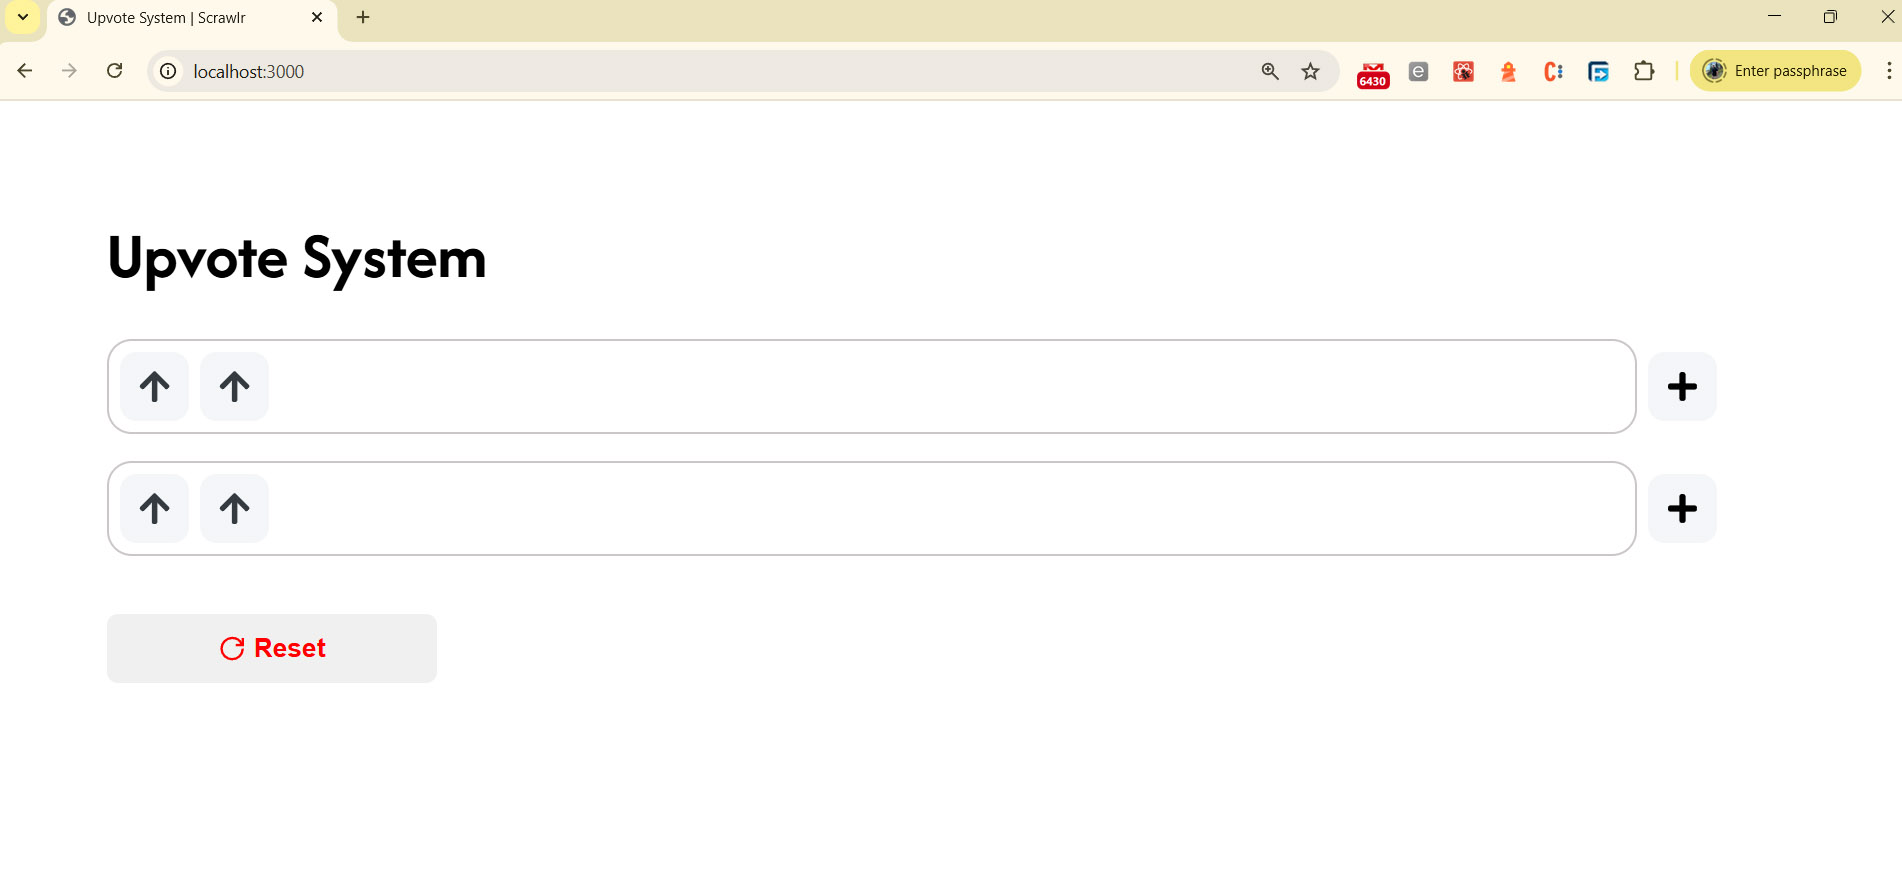
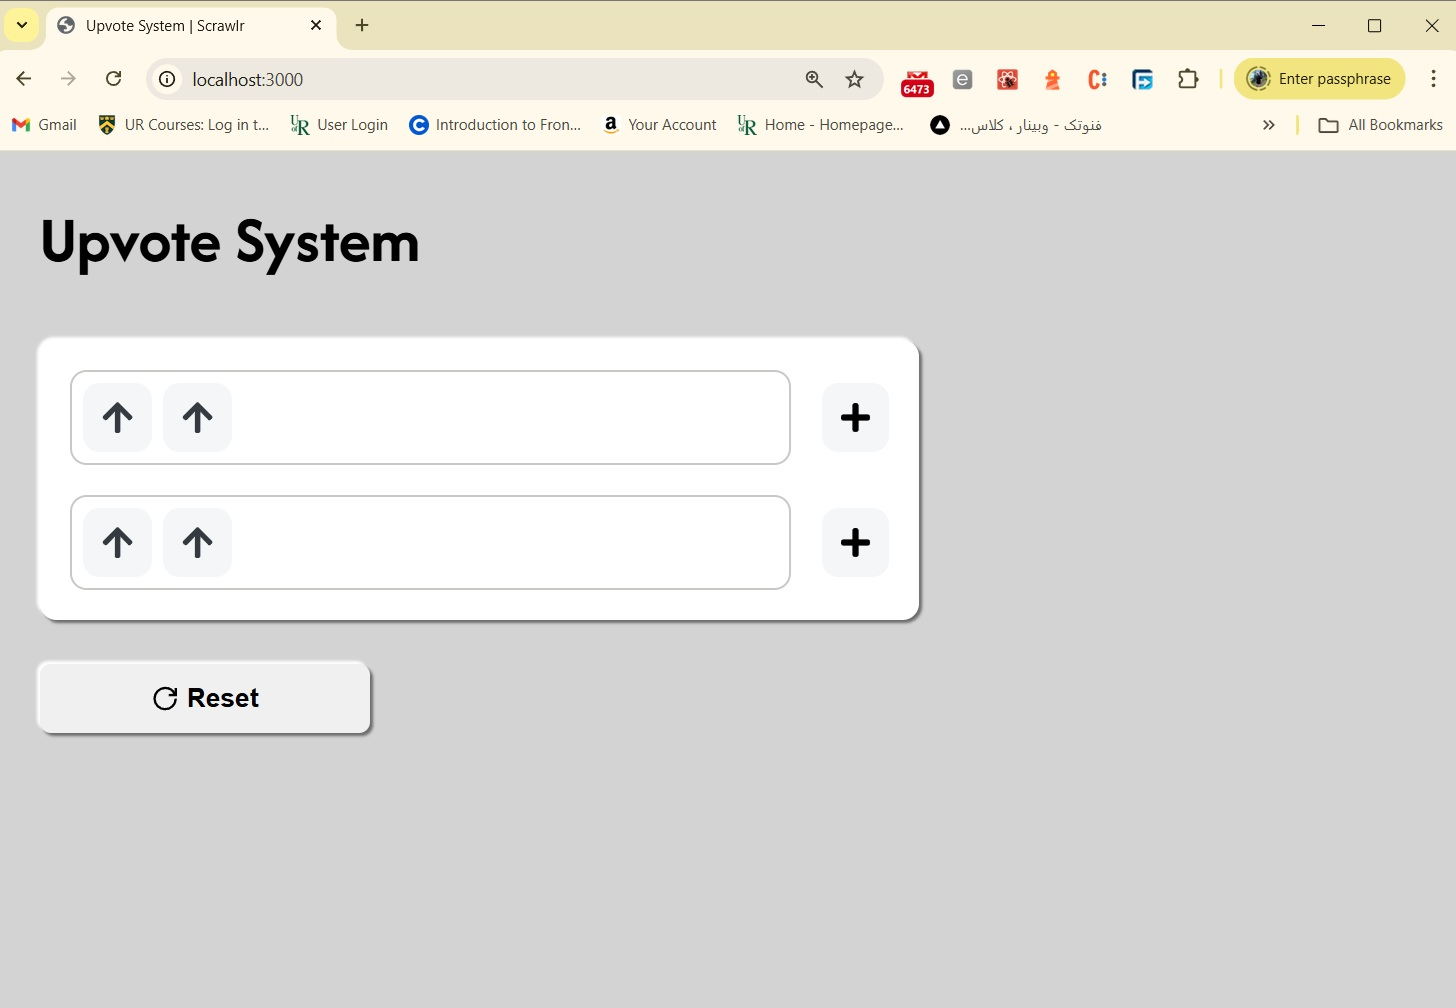
embeded font added- refactored styling files

diff --git a/src/styles/_mixins.scss b/src/styles/_mixins.scss
@@ -23,6 +23,23 @@
   }
 }
 
+@mixin add-button {
+  width: v.$size-upvote;
+  height: v.$size-upvote;
+  border: none;
+  background-color: v.$color-default-bg;
+  border-radius: v.$border-radius-button;
+  font-size: 24px;
+  margin-left: v.$spacing-large;
+  cursor: pointer;
+  @include flex-center;
+  transition: background 0.2s ease;
+
+  &:hover {
+    background-color: v.$color-button-hover;
+  }
+}
+
 @mixin reset-button {
   width: v.$reset-width;
   height: v.$size-upvote;
@@ -47,13 +64,39 @@
 @mixin home {
   display: flex;
   width: 100vw;
-  height: 100vh;
+  min-height: 100vh;
+  height: auto;
   flex-direction: column;
   padding: v.$home-padding;
   font-family: "Afacad Flux", sans-serif;
+  background-color: rgb(211, 211, 211);
 }
 
 @mixin header {
   margin-bottom: 2.6rem;
   font-size: v.$header-font-size;
+}
+
+@mixin lists-container {
+  width: 60vw;
+  background-color: #fff;
+  box-shadow: v.$box-shadow;
+  padding: 0 v.$spacing-large;
+  border-radius: v.$border-radius;
+}
+
+@mixin upvote-list {
+  display: flex;
+  flex-wrap: wrap;
+  width: v.$list-width;
+  gap: v.$spacing-small;
+  border: v.$list-container-border;
+  border-radius: v.$border-radius;
+  padding: v.$spacing-small;
+}
+@mixin upvote-list-container {
+  display: flex;
+  align-items: center;
+  justify-content: left;
+  margin: v.$spacing-large 0;
 }

diff --git a/index.html b/index.html
@@ -3,6 +3,12 @@
   <head>
     <meta charset="UTF-8" />
     <meta name="viewport" content="width=device-width, initial-scale=1.0" />
+    <link rel="preconnect" href="https://fonts.googleapis.com" />
+    <link rel="preconnect" href="https://fonts.gstatic.com" crossorigin />
+    <link
+      href="https://fonts.googleapis.com/css2?family=Afacad+Flux:wght@100..1000&family=Alex+Brush&family=Belleza&family=Dancing+Script:wght@400..700&family=Figtree:ital,wght@0,300..900;1,300..900&family=Fraunces:ital,opsz,wght@0,9..144,100..900;1,9..144,100..900&family=Great+Vibes&family=Inter:ital,opsz,wght@0,14..32,100..900;1,14..32,100..900&family=Montserrat:ital,wght@0,100..900;1,100..900&family=Playfair+Display:ital,wght@0,400..900;1,400..900&family=Raleway:ital,wght@0,100..900;1,100..900&family=Roboto:ital,wght@0,100;0,300;0,400;0,500;0,700;0,900;1,100;1,300;1,400;1,500;1,700;1,900&family=Satisfy&family=Vazirmatn:wght@100..900&family=Young+Serif&display=swap"
+      rel="stylesheet"
+    />
     <title>Upvote System | Scrawlr</title>
   </head>
   <body>

diff --git a/src/styles/_upvote.scss b/src/styles/_upvote.scss
@@ -10,17 +10,12 @@
 }
 
 .upvote-list {
-  display: flex;
-  flex-wrap: wrap;
-  width: v.$list-width;
-  gap: v.$spacing-small;
-  border: v.$list-container-border;
-  border-radius: v.$border-radius;
-  padding: v.$spacing-small;
+  @include m.upvote-list;
 }
 .upvote-list-container {
-  display: flex;
-  align-items: center;
-  justify-content: left;
-  margin: v.$spacing-large 0;
+  @include m.upvote-list-container;
+}
+
+.add-button {
+  @include m.add-button();
 }

diff --git a/src/styles/global.scss b/src/styles/global.scss
@@ -9,7 +9,6 @@
 
 .home {
   @include m.home();
-  background-color: rgb(211, 211, 211);
 }
 .reset-button {
   @include m.reset-button();
@@ -20,9 +19,5 @@
 }
 
 .lists-container {
-  width: 60vw;
-  background-color: #fff;
-  box-shadow: v.$box-shadow;
-  padding: v.$spacing-large;
-  border-radius: v.$border-radius;
+  @include m.lists-container();
 }

diff --git a/src/styles/_variables.scss b/src/styles/_variables.scss
@@ -19,7 +19,7 @@ $list-container-border: 2px rgb(202, 199, 199) solid;
 
 $reset-width: 15rem;
 
-$home-padding: 5rem;
+$home-padding: 2rem;
 $header-font-size: 3rem;
 
 $box-shadow: 2px 2px 3px rgb(109, 108, 108), -2px -2px 2px #fff;

diff --git a/src/components/Upvote.jsx b/src/components/Upvote.jsx
@@ -1,5 +1,4 @@
 import React from "react";
-import "../styles/_buttons.scss";
 import "../styles/_upvote.scss";
 
 import { FaArrowUp } from "react-icons/fa";
